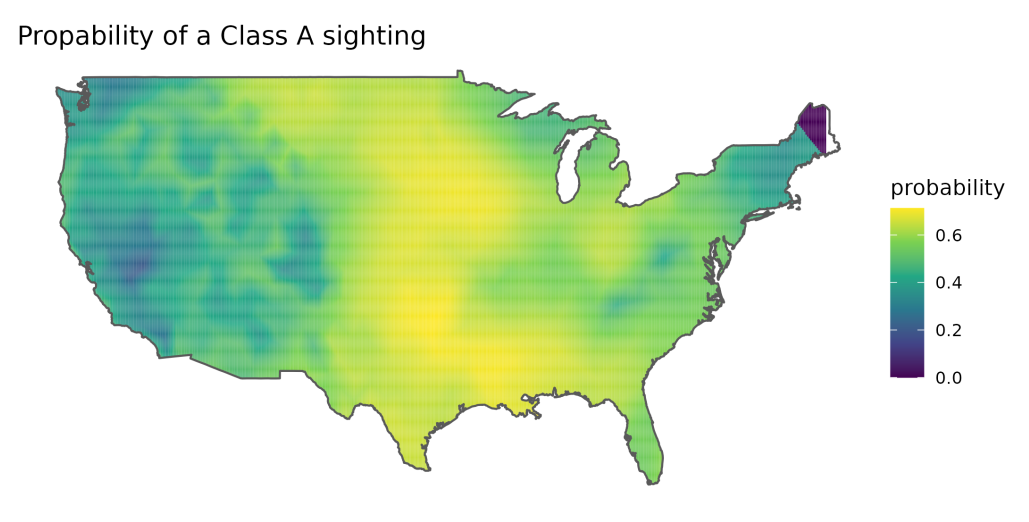
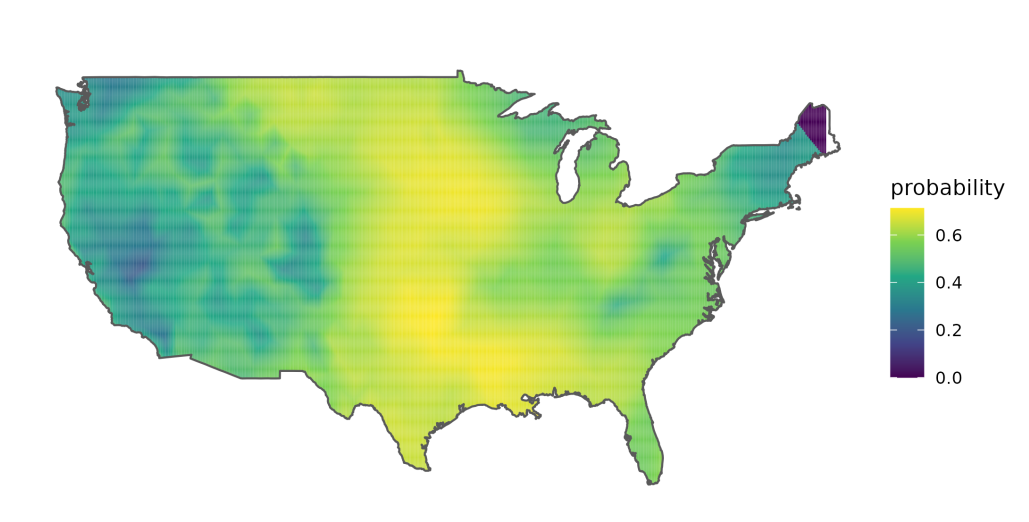
typo and adding autec

Changed region(s): [[0.0, 0.0307, 0.4354, 0.092]]

diff --git a/static/slides/nzmasp_2023.html b/static/slides/nzmasp_2023.html
@@ -93,6 +93,13 @@ background-size: fill
 ]
 
 ---
+class: inverse
+
+.center[
+## A brief foray back into the *real world*
+]
+
+---
 
 ## NIWA
 
@@ -123,7 +130,9 @@ background-size: fill
 
 ---
 
-## <svg aria-hidden="true" role="img" viewBox="0 0 512 512" style="height:1em;width:1em;vertical-align:-0.125em;margin-left:auto;margin-right:auto;font-size:inherit;fill:currentColor;overflow:visible;position:relative;"><path d="M464 256A208 208 0 1 0 48 256a208 208 0 1 0 416 0zM0 256a256 256 0 1 1 512 0A256 256 0 1 1 0 256zm169.8-90.7c7.9-22.3 29.1-37.3 52.8-37.3h58.3c34.9 0 63.1 28.3 63.1 63.1c0 22.6-12.1 43.5-31.7 54.8L280 264.4c-.2 13-10.9 23.6-24 23.6c-13.3 0-24-10.7-24-24V250.5c0-8.6 4.6-16.5 12.1-20.8l44.3-25.4c4.7-2.7 7.6-7.7 7.6-13.1c0-8.4-6.8-15.1-15.1-15.1H222.6c-3.4 0-6.4 2.1-7.5 5.3l-.4 1.2c-4.4 12.5-18.2 19-30.6 14.6s-19-18.2-14.6-30.6l.4-1.2zM224 352a32 32 0 1 1 64 0 32 32 0 1 1 -64 0z"/></svg> Academia
+## <svg aria-hidden="true" role="img" viewBox="0 0 512 512" style="height:1em;width:1em;vertical-align:-0.125em;margin-left:auto;margin-right:auto;font-size:inherit;fill:currentColor;overflow:visible;position:relative;"><path d="M464 256A208 208 0 1 0 48 256a208 208 0 1 0 416 0zM0 256a256 256 0 1 1 512 0A256 256 0 1 1 0 256zm169.8-90.7c7.9-22.3 29.1-37.3 52.8-37.3h58.3c34.9 0 63.1 28.3 63.1 63.1c0 22.6-12.1 43.5-31.7 54.8L280 264.4c-.2 13-10.9 23.6-24 23.6c-13.3 0-24-10.7-24-24V250.5c0-8.6 4.6-16.5 12.1-20.8l44.3-25.4c4.7-2.7 7.6-7.7 7.6-13.1c0-8.4-6.8-15.1-15.1-15.1H222.6c-3.4 0-6.4 2.1-7.5 5.3l-.4 1.2c-4.4 12.5-18.2 19-30.6 14.6s-19-18.2-14.6-30.6l.4-1.2zM224 352a32 32 0 1 1 64 0 32 32 0 1 1 -64 0z"/></svg> Back to academia
+
+
 
 .center[
 &lt;img src="img/split.png"/&gt;
@@ -362,6 +371,18 @@ class: inverse
 .center[
 &lt;img src="img/tag.jpg" alt="Blainville's beaked whale, tagged" height="400"/&gt;
 .footnote[<i class="fas  fa-camera "></i> Charlotte Dunn]
+]
+
+
+---
+
+
+.pull-left[
+## The data
+&lt;img src="img/autec.png" /&gt;
+]
+.pull-right[
+&lt;img src="https://upload.wikimedia.org/wikipedia/commons/8/8a/AUTEC_Andros_Ranges_w_border.jpg" /&gt;
 ]
 
 
